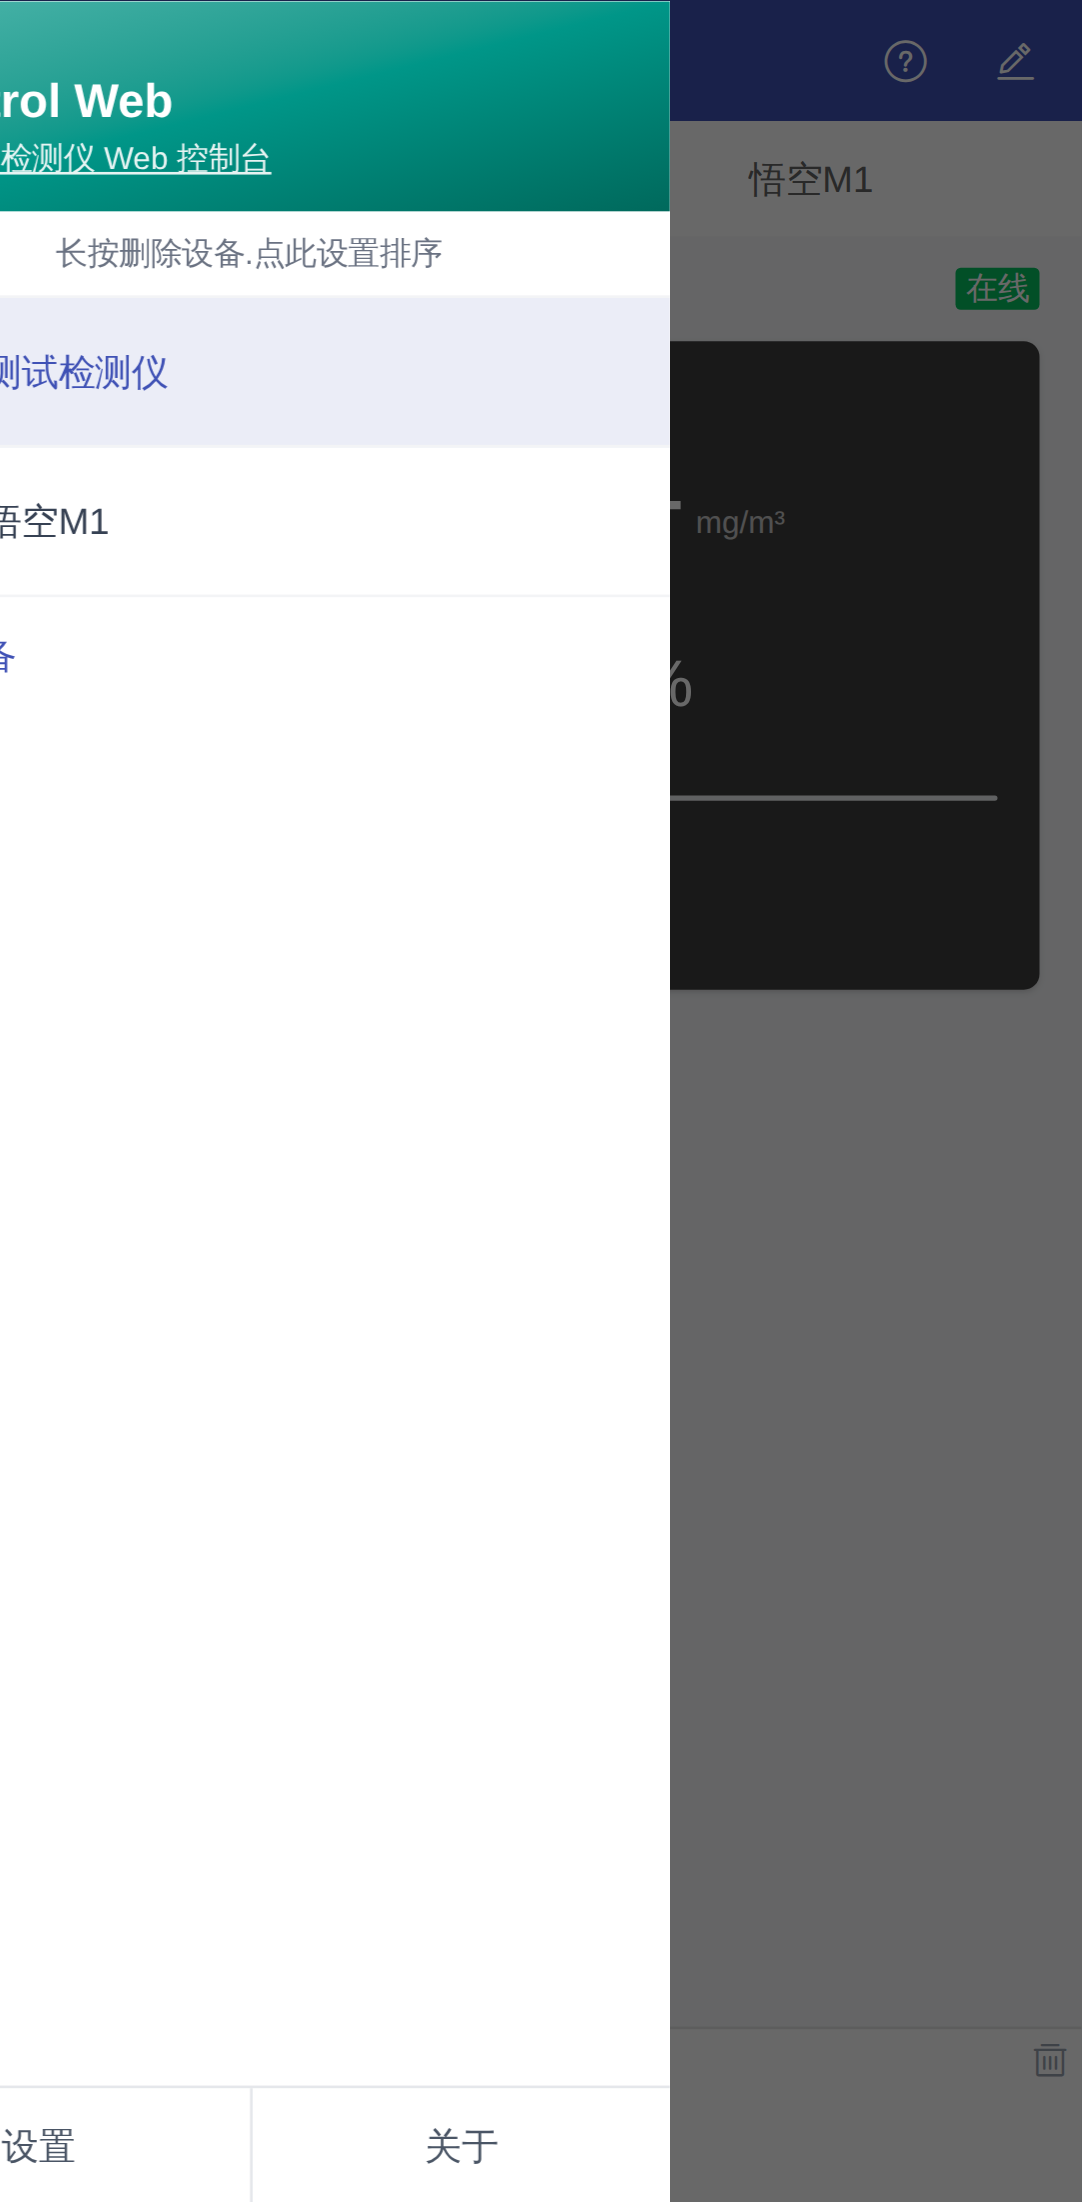
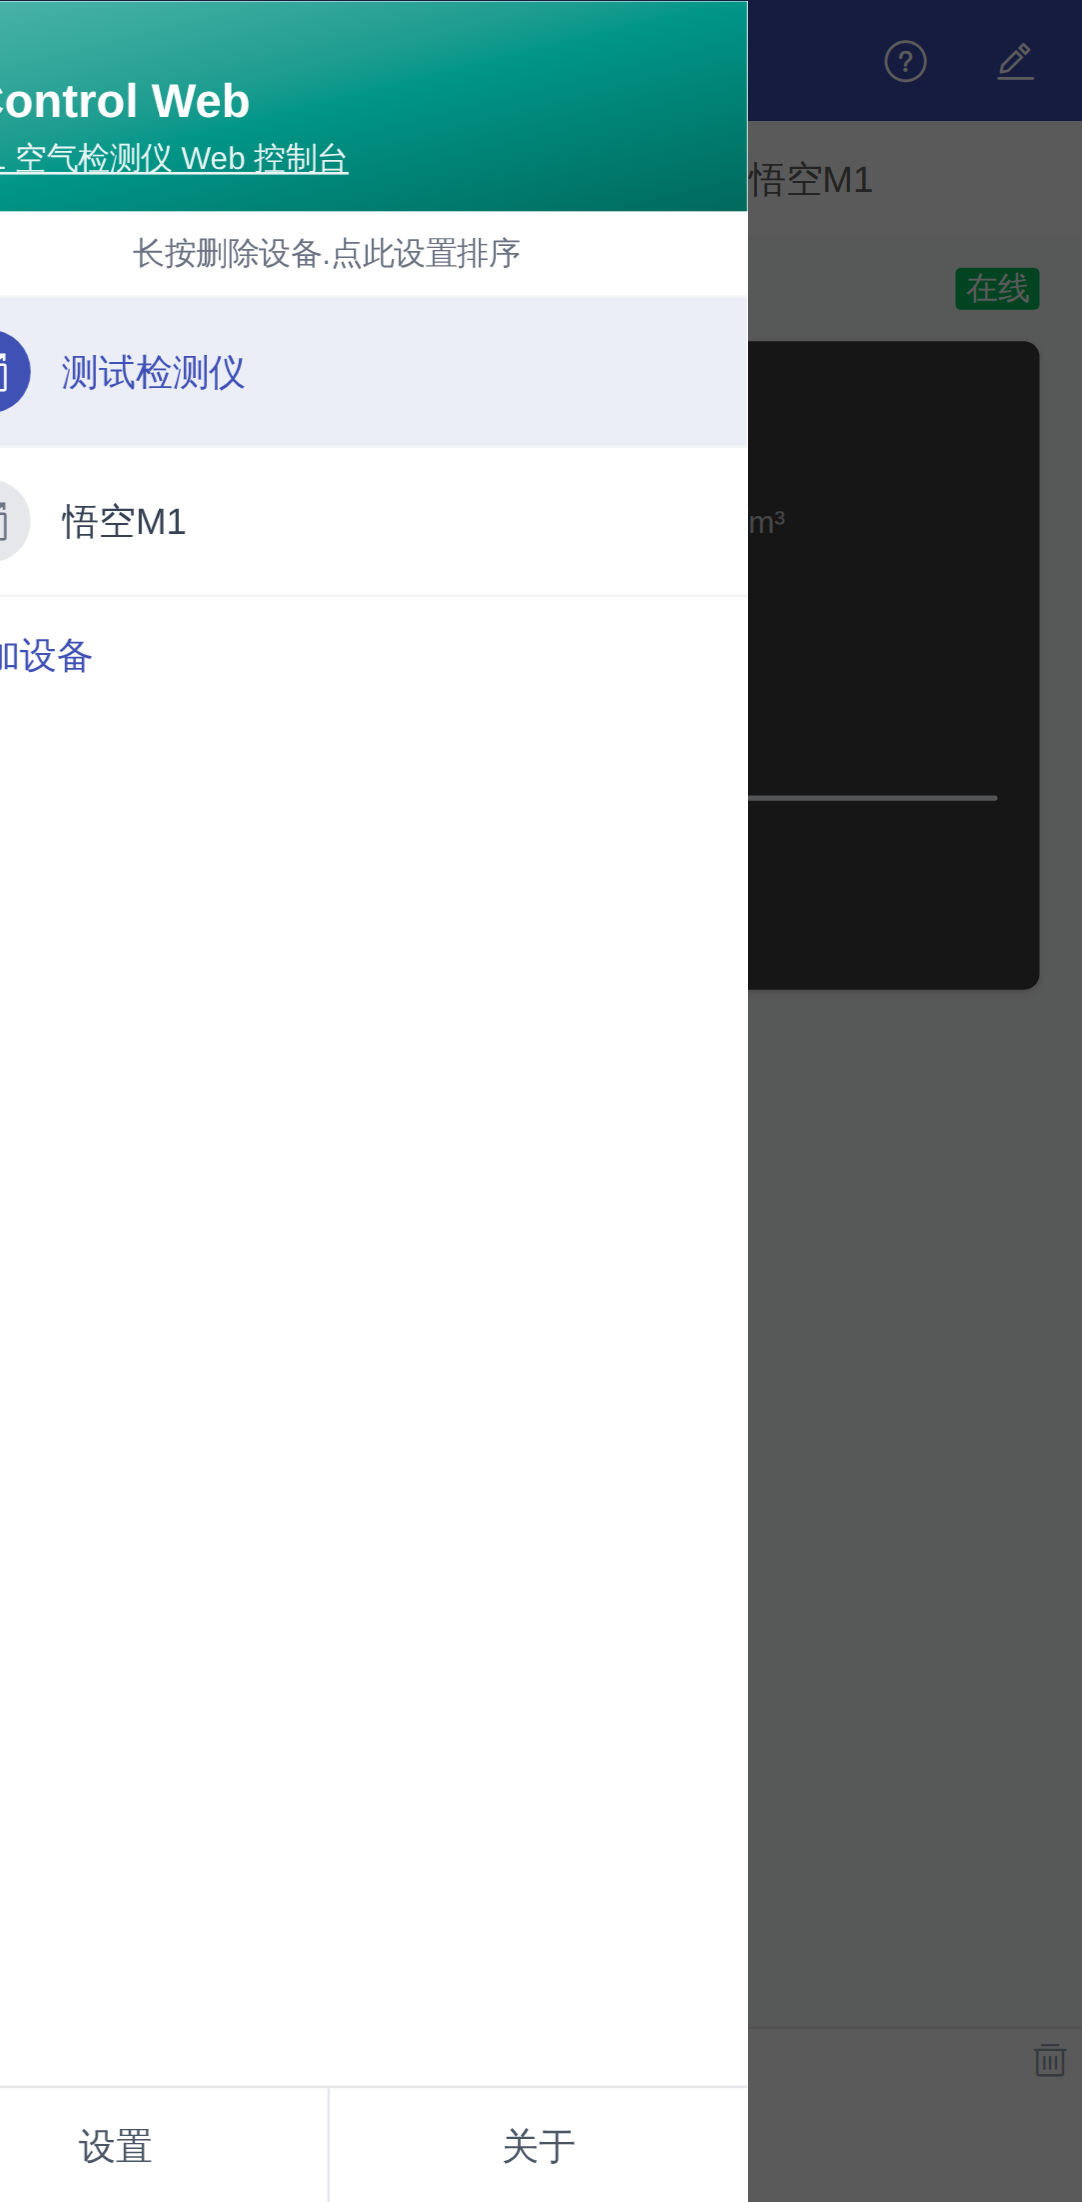
fix: 局域网扫描结果实时推送（此前必须刷新页面才看得到设备）
现象：在添加设备页点「开始扫描」后，界面长时间不出设备；刷新网页立刻出现。
实测：后端 1 秒内已发现 2 台设备，界面 15 秒仍为 0 条。

根因：发现服务发出的是 scan.found 事件，WS 层只订阅了 scan.changed（扫描开关状态），
发现结果从未推送给前端；前端也没有对应的消息分支。扫描列表只靠 REST 拉取——即进入页面
那一次和点击开始/停止那一次，所以扫描过程中界面不会更新。

- 后端：WS 层订阅 scan.found 并广播 { type: 'scan' }；hello 首帧带上扫描状态与已发现设备
- 前端：消费 scan 消息写入扫描列表；扫描中状态随 status/hello 同步（多端一致）
- 回归测试：
  · 后端单测断言 scan.found 会产生 scan 广播（曾用「临时还原修复」验证过它会失败）
  · 页面用例注入 WS 消息，断言列表无需刷新即出现设备
  · 全栈用例用真 UDP 假设备验证「点开始扫描 → 列表自动出现」，并先静默已注册的假设备，
    避免它的周期上报触发附带 REST 刷新而掩盖该缺陷
- 顺带修掉全栈用例的冷启动等待：改为等设备真的回了一帧数据，而不是固定 sleep
- docs/API.md 补充 scan 事件与 hello 首帧字段

diff --git a/apps/web/tests/e2e/fullstack.spec.ts b/apps/web/tests/e2e/fullstack.spec.ts
@@ -74,6 +74,12 @@ test.describe('全栈联调（真后端 + 本机 broker + 假设备）', () => {
     });
     // 主动查一次，让假设备立刻回一帧完整数据（不用等它的上报周期）
     await api(`/devices/${FAKE_MAC}/cmd`, { method: 'POST', body: JSON.stringify({ cmd: { brightness: null } }) });
+    // 等数据真正到手再开跑：固定 sleep 在冷启动（刚重启后端）时不够，会让第一个用例空等到超时
+    for (let i = 0; i < 40; i++) {
+      const st = (await api(`/devices/${FAKE_MAC}/state`)).data as { state?: { PM25?: number } };
+      if (typeof st?.state?.PM25 === 'number') break;
+      await new Promise((r) => setTimeout(r, 500));
+    }
   });
 
   test.afterAll(async () => {
@@ -149,5 +155,43 @@ test.describe('全栈联调（真后端 + 本机 broker + 假设备）', () => {
     const payload = (res.data as { sent: { payload: string } }).sent.payload;
     expect(JSON.parse(payload).setting.mqtt_uri).toBe('127.0.0.1');
     expect(JSON.parse(payload).setting.mqtt_port).toBe(1883);
+  });
+
+  test('局域网扫描：点「开始扫描」后设备实时出现在添加页（无需刷新页面）', async ({ page }) => {
+    // 先停掉 MQTT 假设备：它在设备表里、会周期性上报，从而触发一次附带的 REST 刷新，
+    // 会掩盖「扫描结果没有实时推送」这一类缺陷。只有它静默，本用例才真的能守住这条链。
+    stopFake();
+    await new Promise((r) => setTimeout(r, 500));
+
+    // 每次跑用不同 mac：后端会保留上一次扫描结果，固定 mac 会被上一次的缓存干扰
+    const udpMac = `aabbccddee${Math.floor(Math.random() * 256)
+      .toString(16)
+      .padStart(2, '0')}`;
+    // 真 UDP 通道的假设备（与 MQTT 假设备二选一，见 fake-zm1.mjs）
+    const udpFake = spawn(process.execPath, [FAKE_SCRIPT, '--mac', udpMac, '--name', 'zM1发现测试', '--udp'], {
+      stdio: 'ignore',
+    });
+    try {
+      await new Promise((r) => setTimeout(r, 800));
+
+      await page.goto('/#/add');
+      await expect(page.getByTestId('scan-toggle')).toHaveText('开始扫描');
+      await expect(page.getByTestId(`scan-device-${udpMac}`)).toHaveCount(0);
+
+      await page.getByTestId('scan-toggle').click();
+
+      // 关键断言：不刷新页面，扫描结果通过 WS 实时进列表
+      await expect(page.getByTestId(`scan-device-${udpMac}`)).toContainText('zM1发现测试', {
+        timeout: 20_000,
+      });
+      await expect(page.getByTestId('scan-toggle')).toHaveText('停止扫描');
+
+      // 扫描到的设备不落库：设备表里不应出现它
+      const saved = (await api('/devices')).data as { devices: { mac: string }[] };
+      expect(saved.devices.map((d) => d.mac)).not.toContain(udpMac);
+    } finally {
+      udpFake.kill('SIGTERM');
+      await api('/discovery/scan', { method: 'POST', body: JSON.stringify({ action: 'stop' }) }).catch(() => null);
+    }
   });
 });

diff --git a/apps/web/tests/e2e/pages/shell-pages.spec.ts b/apps/web/tests/e2e/pages/shell-pages.spec.ts
@@ -1,4 +1,4 @@
-import { expect, test, type Page } from '@playwright/test';
+import { expect, test, type Page, type WebSocketRoute } from '@playwright/test';
 
 /**
  * 抽屉侧边栏 + 5 个次级页面的 e2e 验证。
@@ -67,15 +67,24 @@ interface Calls {
   saveSettings: Record<string, unknown>[];
   order: Record<string, unknown>[];
   scan: Record<string, unknown>[];
+  /** 模拟后端向页面推送一帧 WS 消息 */
+  ws: (msg: unknown) => void;
 }
 
 /** 给所有接口挂上 fixture，返回记录到的写请求 */
 async function mockApi(page: Page): Promise<Calls> {
-  const calls: Calls = { addDevice: [], saveSettings: [], order: [], scan: [] };
+  let wsRoute: WebSocketRoute | null = null;
+  const calls: Calls = {
+    addDevice: [],
+    saveSettings: [],
+    order: [],
+    scan: [],
+    ws: (msg) => wsRoute?.send(JSON.stringify(msg)),
+  };
 
-  // 拦截 WebSocket：后端可能推送 hello/status，会覆盖 REST fixture。这里保持静默。
-  await page.routeWebSocket('**/ws', () => {
-    /* 不连接真实后端、不发送任何消息 */
+  // 拦截 WebSocket：默认不连接真实后端、不主动发消息；用例可用 calls.ws() 模拟后端推送。
+  await page.routeWebSocket('**/ws', (ws) => {
+    wsRoute = ws;
   });
 
   await page.route('**/api/status', (r) => r.fulfill({ json: STATUS }));
@@ -192,6 +201,30 @@ test('/add：局域网扫描发现设备；手动输入 12 位 MAC 并 POST /api
 
   // 添加成功 → 返回主界面
   await expect(page.locator('.van-nav-bar__title')).toHaveText('测试检测仪');
+});
+
+test('/add：扫描结果既随首帧下发，也会实时推送（修复前必须刷新页面才看得到）', async ({ page }) => {
+  const calls = await mockApi(page);
+  const pushed = { ...SCAN_DEVICE, mac: 'aabbccddee04', name: '推送设备' };
+
+  await page.goto('/#/add');
+  await expect(page.getByText('未发现设备,点击「开始扫描」')).toBeVisible();
+
+  // ① 首帧 hello 里带的扫描结果（等价于「刷新页面后立刻出现」）
+  calls.ws({
+    type: 'hello',
+    data: { status: STATUS, devices: DEVICES, settings: SETTINGS, scan: { active: false, devices: [pushed] } },
+  });
+  await expect(page.getByTestId('scan-device-aabbccddee04')).toContainText('推送设备');
+
+  // ② 扫描过程中的实时推送：点开始扫描后无需刷新，列表自动出现设备
+  await page.getByTestId('scan-toggle').click();
+  await expect(page.getByTestId('scan-status')).toBeVisible();
+  // 开始扫描会先清空列表（REST 返回该时刻的空列表）
+  await expect(page.getByTestId('scan-device-aabbccddee04')).toHaveCount(0);
+
+  calls.ws({ type: 'scan', data: { devices: [pushed] } });
+  await expect(page.getByTestId('scan-device-aabbccddee04')).toContainText('推送设备');
 });
 
 test('/settings：mqtt 地址非法 Toast 报错，合法才 PUT /api/settings', async ({ page }) => {

diff --git a/apps/web/src/api.ts b/apps/web/src/api.ts
@@ -52,6 +52,12 @@ export interface AppStatus {
   localIps: string[];
 }
 
+/** 局域网扫描状态：是否在扫描 + 已发现的设备 */
+export interface ScanState {
+  active: boolean;
+  devices: DeviceDTO[];
+}
+
 export interface AppSettings {
   mqtt_uri: string;
   mqtt_user: string;
@@ -87,9 +93,13 @@ export interface ImportResult {
 }
 
 export type WsEvent =
-  | { type: 'hello'; data: { status: AppStatus; devices: DeviceDTO[]; settings: AppSettings } }
+  | {
+      type: 'hello';
+      data: { status: AppStatus; devices: DeviceDTO[]; settings: AppSettings; scan: ScanState };
+    }
   | { type: 'status'; data: AppStatus }
   | { type: 'devices'; data: { devices: DeviceDTO[] } }
+  | { type: 'scan'; data: { devices: DeviceDTO[] } }
   | {
       type: 'data';
       data: { mac: string; source: 'mqtt' | 'udp'; topic: string | null; payload: unknown; ts: number };
@@ -148,9 +158,9 @@ export const api = {
   syncMqtt: (mac: string) =>
     req<{ sent: { channel: 'udp'; payload: string } }>(`/settings/mqtt/sync/${mac}`, { method: 'POST' }),
 
-  scanState: () => req<{ active: boolean; devices: DeviceDTO[] }>('/discovery/scan'),
+  scanState: () => req<ScanState>('/discovery/scan'),
   scan: (action: 'start' | 'stop') =>
-    req<{ active: boolean; devices: DeviceDTO[] }>('/discovery/scan', { method: 'POST', ...json({ action }) }),
+    req<ScanState>('/discovery/scan', { method: 'POST', ...json({ action }) }),
 
   exportDevices: () => req<ExportPayload>('/devices/export'),
   importDevices: (device: { name: string; mac: string; type: number }[]) =>

diff --git a/apps/server/test/api.test.ts b/apps/server/test/api.test.ts
@@ -174,6 +174,37 @@ describe('后端接口（关键行为）', () => {
     expect(stop.json().active).toBe(false);
   });
 
+  it('扫描发现的设备通过 WS 实时推送（此前没有推送，界面必须刷新才看得到）', async () => {
+    // 假连接：记录 hub 广播出去的每一帧
+    const frames: { type: string; data: unknown }[] = [];
+    const fakeWs = {
+      readyState: 1,
+      send: (text: string) => frames.push(JSON.parse(text)),
+      close: () => {},
+      on: () => {},
+    };
+    const sockets = (built.hub as unknown as { sockets: Set<typeof fakeWs> }).sockets;
+    sockets.add(fakeWs);
+    try {
+      await post('/api/discovery/scan', { action: 'start' });
+      frames.length = 0;
+
+      built.ctx.dispatcher.handleUdp(
+        '192.168.1.60',
+        10182,
+        JSON.stringify({ name: 'zM1_1234', mac: MAC2, type: 4 }),
+      );
+
+      const scanFrame = frames.find((f) => f.type === 'scan');
+      expect(scanFrame).toBeDefined();
+      const devices = (scanFrame?.data as { devices: { mac: string }[] }).devices;
+      expect(devices.map((d) => d.mac)).toContain(MAC2);
+    } finally {
+      sockets.delete(fakeWs);
+      await post('/api/discovery/scan', { action: 'stop' });
+    }
+  });
+
   it('导入导出：非法条目跳过并计数', async () => {
     const exported = (await get('/api/devices/export')).json();
     expect(exported.device).toHaveLength(2);

diff --git a/apps/web/src/composables/useSocket.ts b/apps/web/src/composables/useSocket.ts
@@ -22,11 +22,14 @@ function dispatch(ev: WsEvent) {
       app.setStatus(ev.data.status);
       app.settings = ev.data.settings;
       device.applyDevices(ev.data.devices);
+      app.setScanning(ev.data.scan.active);
+      app.setScanDevices(ev.data.scan.devices);
       break;
     }
     case 'status': {
       const prev = app.status?.mqtt.connected;
       app.setStatus(ev.data);
+      app.setScanning(ev.data.scan.active);
       if (prev !== ev.data.mqtt.connected) {
         if (ev.data.mqtt.connected) {
           for (const d of device.devices) log.push(d.mac, 'sys', '本工具已连接mqtt服务器');
@@ -40,6 +43,11 @@ function dispatch(ev: WsEvent) {
     case 'devices': {
       device.applyDevices(ev.data.devices);
       if (app.scanning) void app.refreshScan();
+      break;
+    }
+    case 'scan': {
+      // 扫描结果实时推送：点「开始扫描」后无需刷新即可看到设备
+      app.setScanDevices(ev.data.devices);
       break;
     }
     case 'data': {

diff --git a/apps/server/src/ws/hub.ts b/apps/server/src/ws/hub.ts
@@ -25,6 +25,7 @@ export class WsHub {
     bus.on(EV.MQTT_STATUS, () => this.broadcast('status', buildStatus(this.ctx)));
     bus.on(EV.UDP_STATUS, () => this.broadcast('status', buildStatus(this.ctx)));
     bus.on(EV.SCAN, () => this.broadcast('status', buildStatus(this.ctx)));
+    bus.on(EV.SCAN_FOUND, (data) => this.broadcast('scan', data));
     bus.on(EV.DEVICES, (data) => this.broadcast('devices', data));
     bus.on(EV.DATA, (data) => this.broadcast('data', data));
     bus.on(EV.SENT, (data) => this.broadcast('sent', data));
@@ -41,6 +42,8 @@ export class WsHub {
             status: buildStatus(this.ctx),
             devices: this.ctx.registry.snapshot(),
             settings: this.ctx.settings.masked(),
+            // 扫描状态随首帧下发，重连后列表与按钮状态立刻一致
+            scan: { active: this.ctx.discovery.active, devices: this.ctx.discovery.list() },
           },
         };
         try {

diff --git a/apps/web/src/stores/app.ts b/apps/web/src/stores/app.ts
@@ -57,6 +57,10 @@ export const useAppStore = defineStore('app', () => {
     scanDevices.value = list;
   }
 
+  function setScanning(v: boolean) {
+    scanning.value = v;
+  }
+
   return {
     status,
     settings,
@@ -71,5 +75,6 @@ export const useAppStore = defineStore('app', () => {
     stopScan,
     syncMqtt,
     setScanDevices,
+    setScanning,
   };
 });

diff --git a/docs/API.md b/docs/API.md
@@ -100,9 +100,10 @@ interface AppSettings {
 
 | type | data | 说明 |
 | --- | --- | --- |
-| `hello` | `{ status, devices, settings }` | 连接建立时全量快照 |
+| `hello` | `{ status, devices, settings, scan }` | 连接建立时全量快照（`scan` 为 `{ active, devices }`） |
 | `status` | `AppStatus` | MQTT/UDP/扫描状态变化 |
 | `devices` | `{ devices: DeviceDTO[] }` | 设备增删改、名称/在线/顺序变化 |
+| `scan` | `{ devices: DeviceDTO[] }` | 局域网扫描发现的设备（扫描期间实时推送，无需刷新页面） |
 | `data` | `{ mac, source, topic, payload, ts }` | 设备上报（payload 为对象；availability 为字符串 `"1"`/`"0"`） |
 | `sent` | `{ mac, source, topic, payload, ts }` | 后端已下发的报文（前端记日志用） |
 
